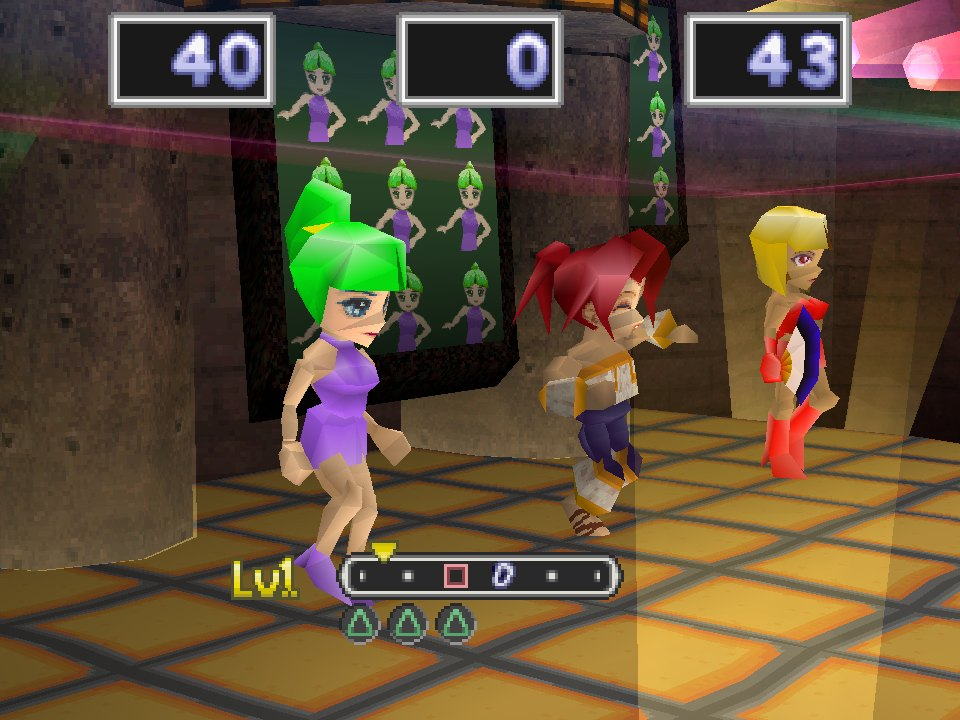
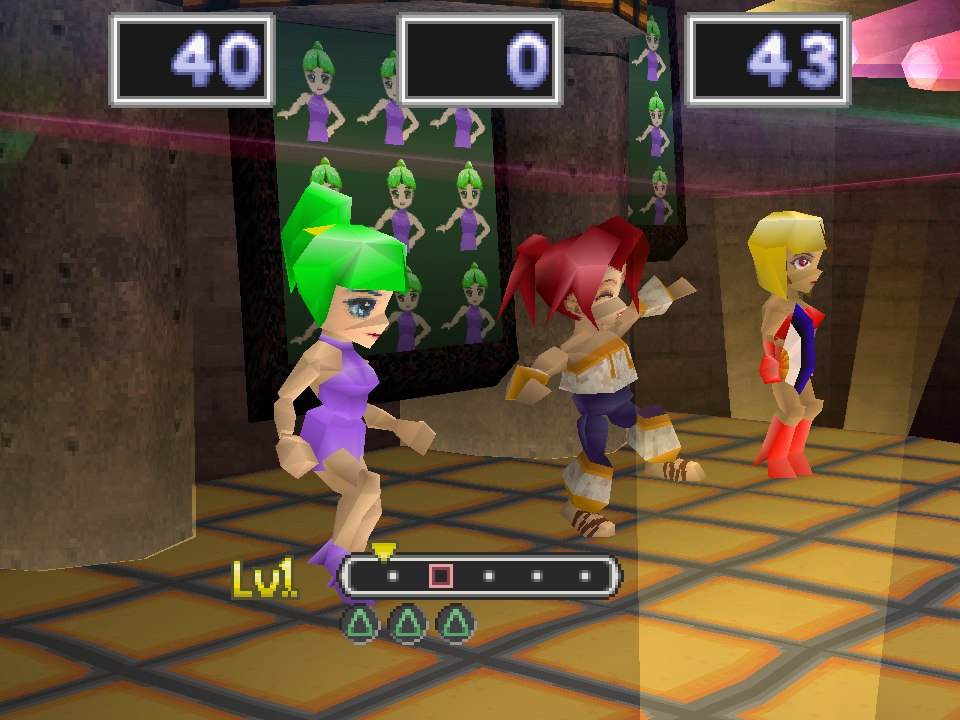
Dance HUD: drop the stray gauge counter drawn mid beat track
DanceGame::hud_draw_quads appended a style-B number run (widget 0x21)
for the raw gauge value beside the Lv. pair. Its units digit lands at
x + 0x50 = (168, 192), in the middle of the human's beat track, where it
read as a slanted white oval over the scrolling notes. Retail's gauge
routine FUN_801d3e28 is two FUN_801d2f38 emits (widget 6 at 0x801D3E88,
widget 7 at 0x801D3EA0) and nothing else; style B's only caller is the
free-play counter in FUN_801cf470 (0x801CF5E8). Shared code, so this
also fixes the browser play page; the minigames page lays its own HUD
out and never drew it.

Regression: unit test over the HUD frame at three gauge values, and the
disc-gated HUD frame count in dance_minigame_real. Recaptured the home
Minigames tile from the fixed native build.

diff --git a/crates/engine-minigames/src/dance/tests.rs b/crates/engine-minigames/src/dance/tests.rs
@@ -1209,6 +1209,48 @@ fn hud_digits_are_emitted_before_their_score_boxes() {
     );
 }
 
+/// The groove gauge is `FUN_801d3e28`'s two emits - the `Lv.` label (widget
+/// 6) and its level digit (widget 7) - and nothing else. The frame once
+/// appended a style-B number run (widget `0x21`) for the raw gauge value,
+/// whose units digit landed in the middle of the human's beat track as a
+/// stray narrow `0` that retail never draws: style B's only caller is the
+/// free-play counter in the beat-clock SM (`0x801CF5E8`), not the gauge.
+#[test]
+fn the_gauge_readout_draws_no_number_run_over_the_beat_track() {
+    use legaia_minigame_formats::dance_art::DanceWidget;
+    let mut g = game();
+    g.widgets = (0..=0x21u8)
+        .map(|i| {
+            (
+                DanceWidget {
+                    scale: 0x1000,
+                    tpage: 0x0008,
+                    clut: 0x7D00,
+                    u: 0,
+                    v: i,
+                    w: 8,
+                    h: 8,
+                    rgb_top: [0x80; 3],
+                    rgb_bottom: [0x80; 3],
+                    semi: 0,
+                },
+                0,
+            )
+        })
+        .collect();
+    for gauge in [0u32, 1250, 2999] {
+        g.dancers[0].gauge = gauge;
+        let quads = g.hud_draw_quads(false);
+        let src = |q: &DanceHudQuad| u32::from(q.uv[0].1);
+        assert!(
+            quads.iter().all(|q| src(q) != 0x21),
+            "gauge {gauge}: no style-B counter digit in the HUD frame"
+        );
+        assert_eq!(quads.iter().filter(|q| src(q) == 6).count(), 1);
+        assert_eq!(quads.iter().filter(|q| src(q) == 7).count(), 1);
+    }
+}
+
 /// The human's award sounds are `FUN_801d1af4`'s dancer-0 arm: a miss stores
 /// `0x210`, a closed chain keys a random sting, a landed groovy move keys
 /// the fixed sting and stores its lane's tier cue, and an unlanded one is

diff --git a/crates/engine-minigames/src/dance/game.rs b/crates/engine-minigames/src/dance/game.rs
@@ -543,8 +543,8 @@ impl DanceGame {
     /// The full per-frame HUD **quad** list, in retail's emission order: per
     /// [`DanceGame::hud_draws`] element, the style-A digit run for each score
     /// readout, the score-box frame for each box ([`DanceGame::hud_quads`]'s
-    /// quad), and the `Lv.` label + digit pair (with the style-B narrow gauge
-    /// counter beside it) for each gauge readout. This is the textured-quad
+    /// quad), the `Lv.` label + digit pair for each gauge readout, and each
+    /// beat track ([`DanceGame::beat_track_quads`]). This is the textured-quad
     /// half of the HUD driver frame; which glyph each quad samples is carried
     /// in its patched `uv`, so a host without the dance sprite page resident
     /// still receives the retail geometry + gouraud colours.
@@ -582,8 +582,13 @@ impl DanceGame {
                     }
                 }
                 DanceHudDraw::Gauge { x, y, value, .. } => {
+                    // `FUN_801d3e28` is two emits and nothing more: widget 6
+                    // at `(x, y)` (`jal 0x801d2f38` at `0x801D3E88`) and
+                    // widget 7 at `(x + 8, y)` (`0x801D3EA0`). No number
+                    // run: the style-B counter this arm once appended put a
+                    // narrow `0` on the human's beat track (its units slot
+                    // lands at `x + 0x18 + 7 * 8`, mid-track).
                     out.extend(self.gauge_readout_quads(value, x, y));
-                    out.extend(self.number_quads(true, value, x + 0x18, y));
                 }
                 DanceHudDraw::BeatTrack { slot, x, y } => {
                     out.extend(self.beat_track_quads(slot, x, y));

diff --git a/crates/engine-core/tests/dance_minigame_real.rs b/crates/engine-core/tests/dance_minigame_real.rs
@@ -387,8 +387,9 @@ fn the_hud_driver_and_emitter_produce_real_draws_off_the_disc() {
 
     // The full HUD quad frame (the play window's per-frame list) carries the
     // box frames plus the gauge readout pair; a zero score draws one `0`
-    // digit (the number renderer seeds its units slot, `0x801D3358`), and so
-    // does the zero gauge counter beside the `Lv.` pair.
+    // digit (the number renderer seeds its units slot, `0x801D3358`). The
+    // gauge is the `Lv.` pair alone (`FUN_801d3e28`'s two emits): no
+    // style-B counter beside it, which once drew a stray `0` mid-track.
     // Plus the human's beat track (`FUN_801D2524`): the arrow and caps, the
     // clipped notes and body, the stock markers (submission order).
     let frame = game.hud_draw_quads(false);
@@ -401,8 +402,15 @@ fn the_hud_driver_and_emitter_produce_real_draws_off_the_disc() {
     );
     assert_eq!(
         frame.len(),
-        3 + 3 + 2 + 1 + track.len(),
-        "three box frames + three `0` scores + the Lv. pair + the `0` counter + the beat track"
+        3 + 3 + 2 + track.len(),
+        "three box frames + three `0` scores + the Lv. pair + the beat track"
+    );
+    let narrow = game.widget(0x21).expect("widget 0x21 decodes").0;
+    assert!(
+        !frame
+            .iter()
+            .any(|q| q.uv[0].1 == narrow.v && q.clut == narrow.clut),
+        "no style-B counter digit (widget 0x21) in the HUD frame"
     );
     // Body and notes stay inside the track's [x, x + 0x50) draw area.
     assert!(

diff --git a/crates/engine-minigames/src/dance/hud_kernels.rs b/crates/engine-minigames/src/dance/hud_kernels.rs
@@ -92,8 +92,11 @@ pub fn dance_score_digit_u(digit: u8) -> u8 {
 }
 
 // Wired: [`DanceGame::number_quads`] (style B) patches this into widget
-// `0x21`'s texture-U per drawn digit slot, on the same live HUD path as
-// [`dance_score_digit_u`].
+// `0x21`'s texture-U per drawn digit slot. Retail's only style-B caller is
+// the free-play (mode 3) counter in the beat-clock SM (`jal 0x801d32f8` at
+// `0x801CF5E8`, beside widget `0x20` at `(0x28, 0x10)`); the HUD frame
+// (`DanceGame::hud_draw_quads`) does not emit it - the gauge is the `Lv.`
+// pair alone.
 /// PORT: FUN_801d32f8 style-B digit glyph-U (widget `0x21`, the narrow counter):
 /// `digit * 8 + 0x40` - 8-texel glyphs offset `0x40` into the page, 8-px x step.
 pub fn dance_level_digit_u(digit: u8) -> u8 {

diff --git a/crates/engine-ui/src/dance.rs b/crates/engine-ui/src/dance.rs
@@ -458,8 +458,8 @@ pub struct DanceHudQuadView {
     pub tpage: u16,
 }
 
-/// The dance HUD's textured quads (score boxes, digit runs, `Lv.` labels and
-/// gauge counters - `DanceGame::hud_draw_quads`) as screen-space PSX
+/// The dance HUD's textured quads (score boxes, digit runs, `Lv.` gauges and
+/// beat tracks - `DanceGame::hud_draw_quads`) as screen-space PSX
 /// primitives on the staged HUD page: each one a `POLY_GT4` with its
 /// top / bottom colour pair, linked at the bucket the whole HUD shares
 /// ([`COUNTIN_OT`]). The caller draws them only while the page is resident

diff --git a/docs/subsystems/minigame-dance.md b/docs/subsystems/minigame-dance.md
@@ -659,6 +659,8 @@ Mode `3` skips both side boxes and both side digit runs. The default arm (a mode
 
 **Digits.** `FUN_801d32f8(style, x, y, value, brightness, size)` is an 8-place decimal split with leading zeros suppressed. Style `0` uses widget `1` at a 16-px step, any other style widget `0x21` at 8 px. It seeds its units slot with `0` before the fill (`sw zero,0x34(sp)` at `0x801D3358`), so a zero score draws one `0`.
 
+**The gauge has no number run.** `FUN_801d3e28(gauge, x, y)` is two `FUN_801d2f38` emits: widget `6` (`Lv.`) at `(x, y)` and widget `7` at `(x + 8, y)` with its `u` patched to `(gauge / 1000) * 8 - 0x30` (`0x801D3E88` / `0x801D3EA0`). The narrow style-B digits have one caller, the free-play (mode `3`) counter in `FUN_801cf470` (`a0 = 1` at `(0x2C, 0x10)`, `jal` at `0x801CF5E8`, after widget `0x20` at `(0x28, 0x10)`). A gauge counter beside the `Lv.` pair puts its units digit at `x + 0x50`, in the middle of the human's beat track, where retail draws nothing.
+
 **Draw order.** Every widget quad links into one ordering-table bucket through `AddPrim` (`jal 0x8003d2c4` at `0x801D32D8` in `FUN_801d2f38`), which prepends. The digit runs are emitted first (`0x801D23D0..0x801D2428`) and so draw last, over the box frames' opaque interiors (emitted at `0x801D2440..0x801D247C`).
 
 **Beat track** (`FUN_801d2524`). The body and notes draw under a draw area of `[x, x + 0x50)` (the `E3` / `E4` pair at `0x801D28E8..0x801D2974`); the caps, arrow and stock markers draw unclipped. The body is twelve tiles of widget `0x1E`; the eight notes are widget `sym + 0xD` (`addiu a2, a2, 0xd` at `0x801D289C`) for the chart cell of beat `(beat + i - 1) & 31`. Body and caps flash to CLUT `0x7D0D` on `beat & 7 == 3` (`beat & 3` at level `0`) inside the first `0x46` phase units (`0x801D2620..0x801D266C`). The stock markers read the triangle stock `DAT_801d534c` directly.
